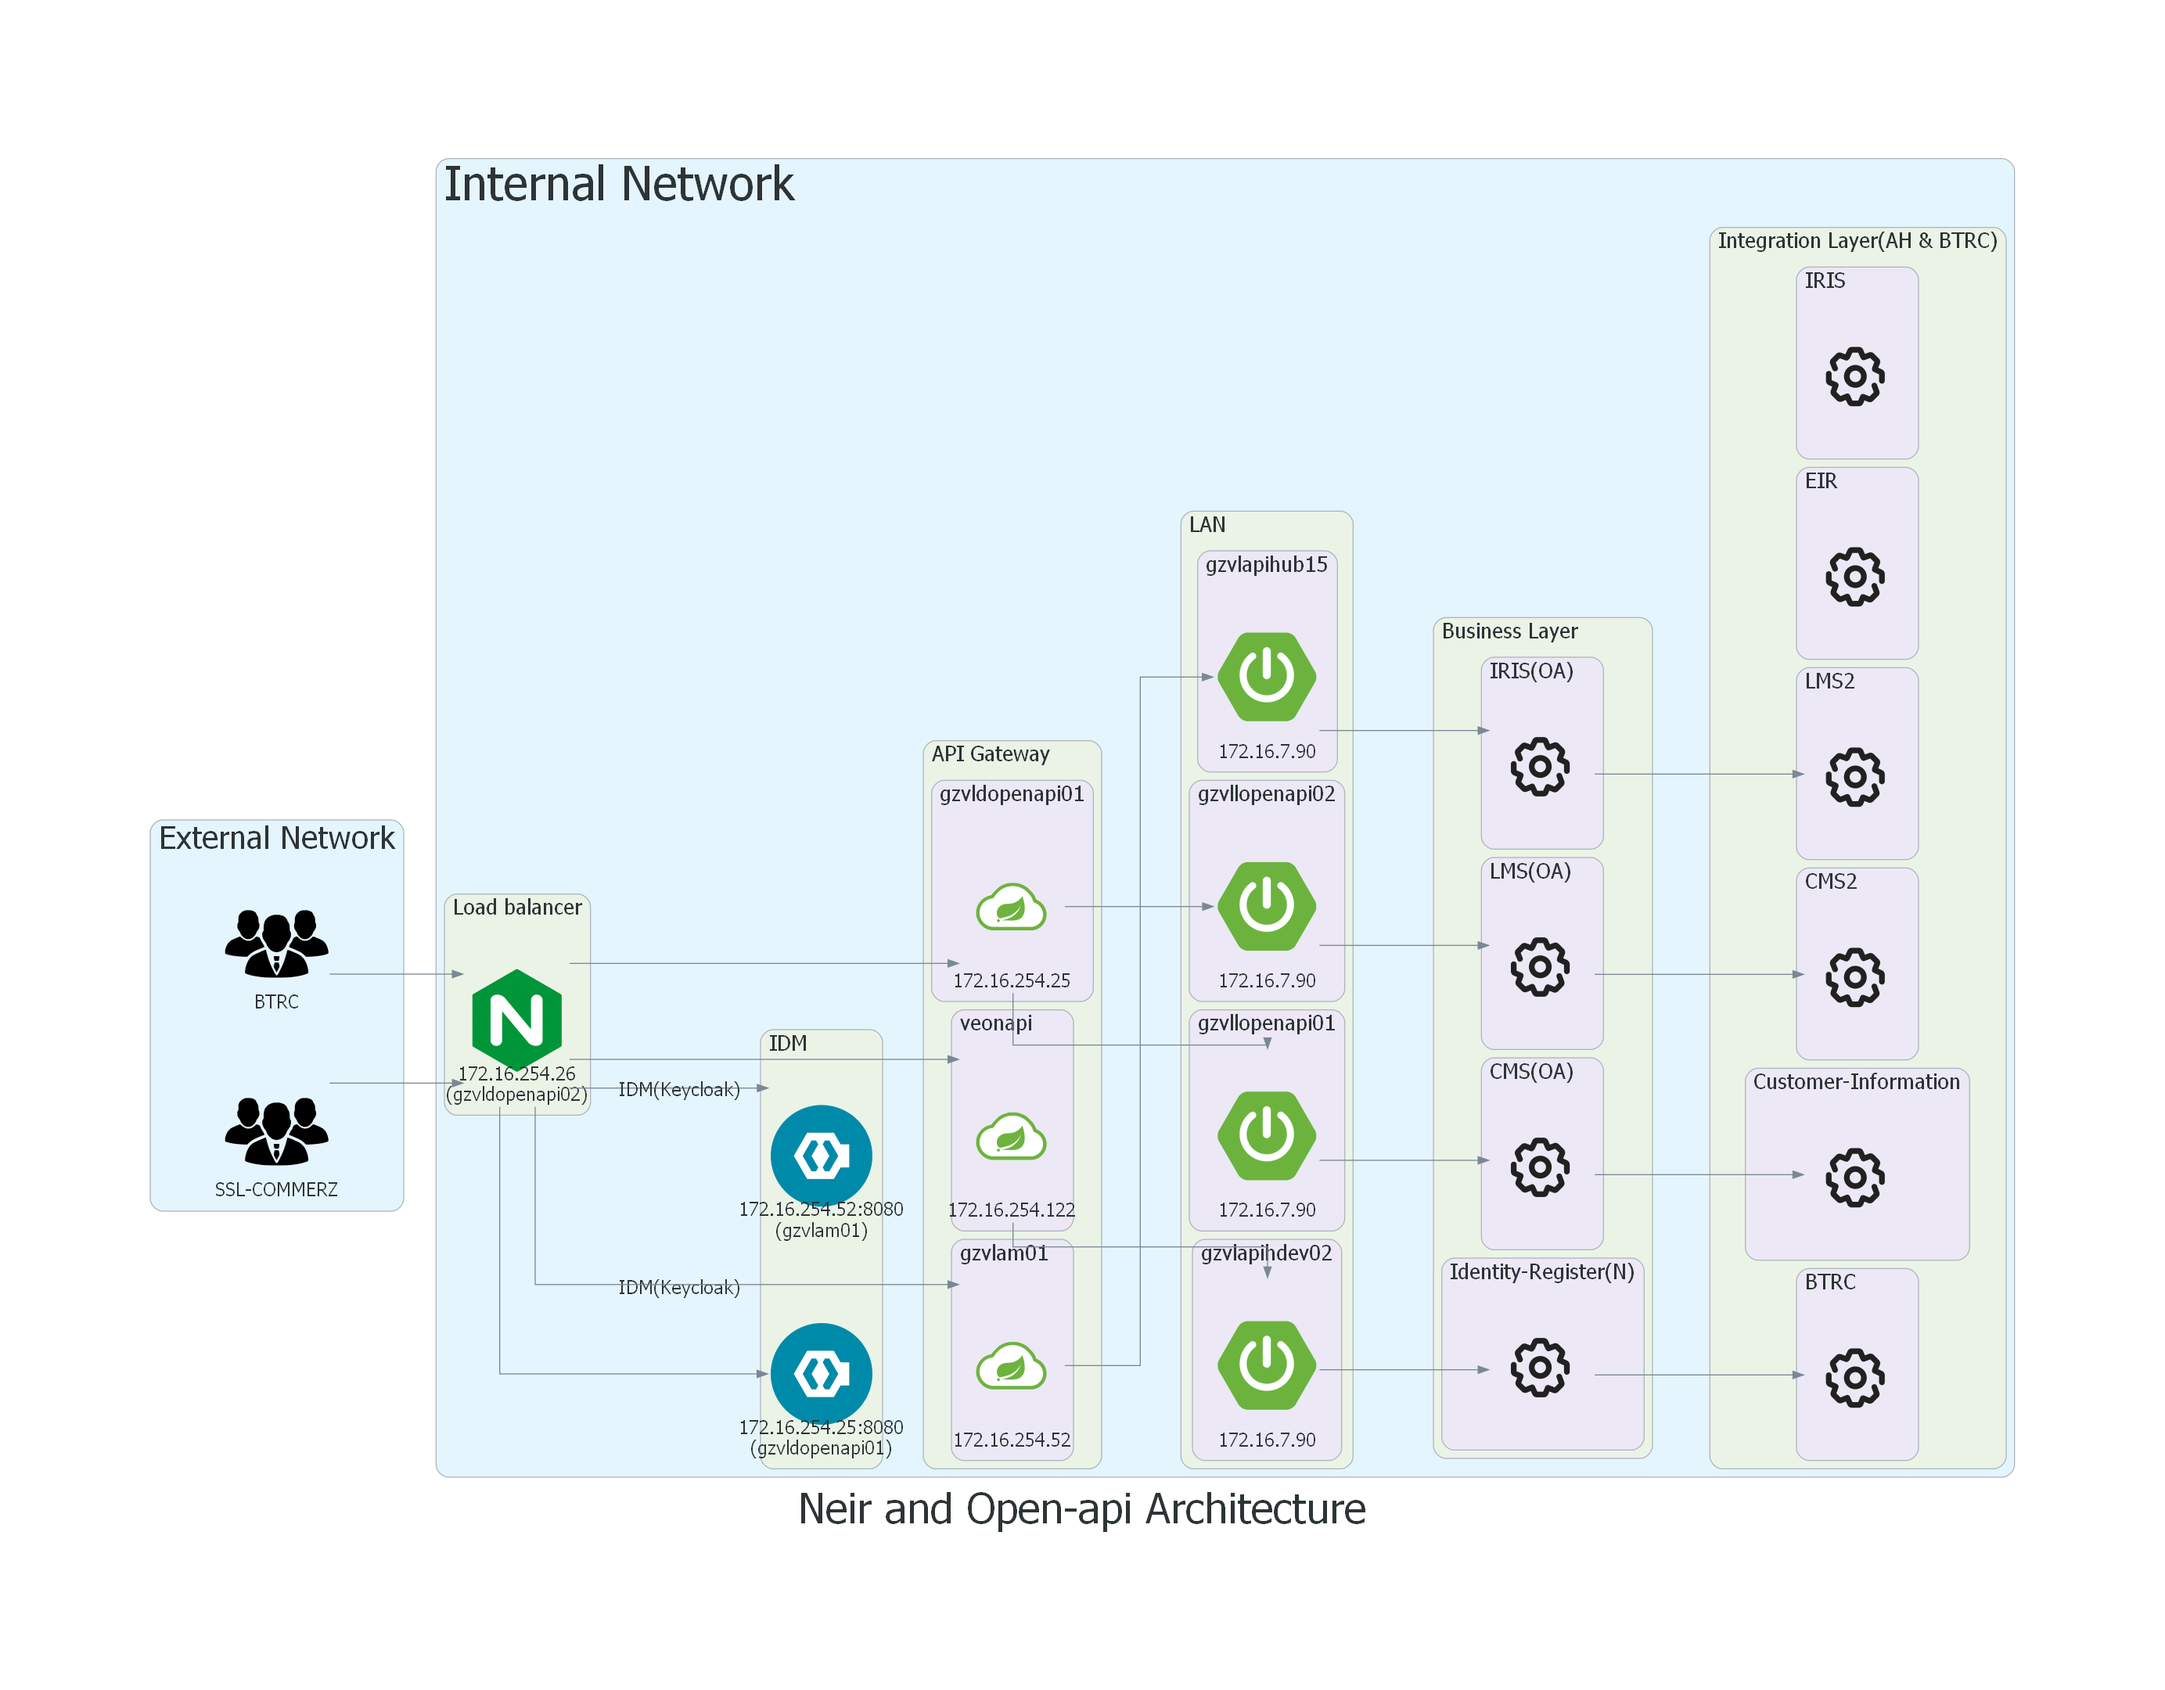
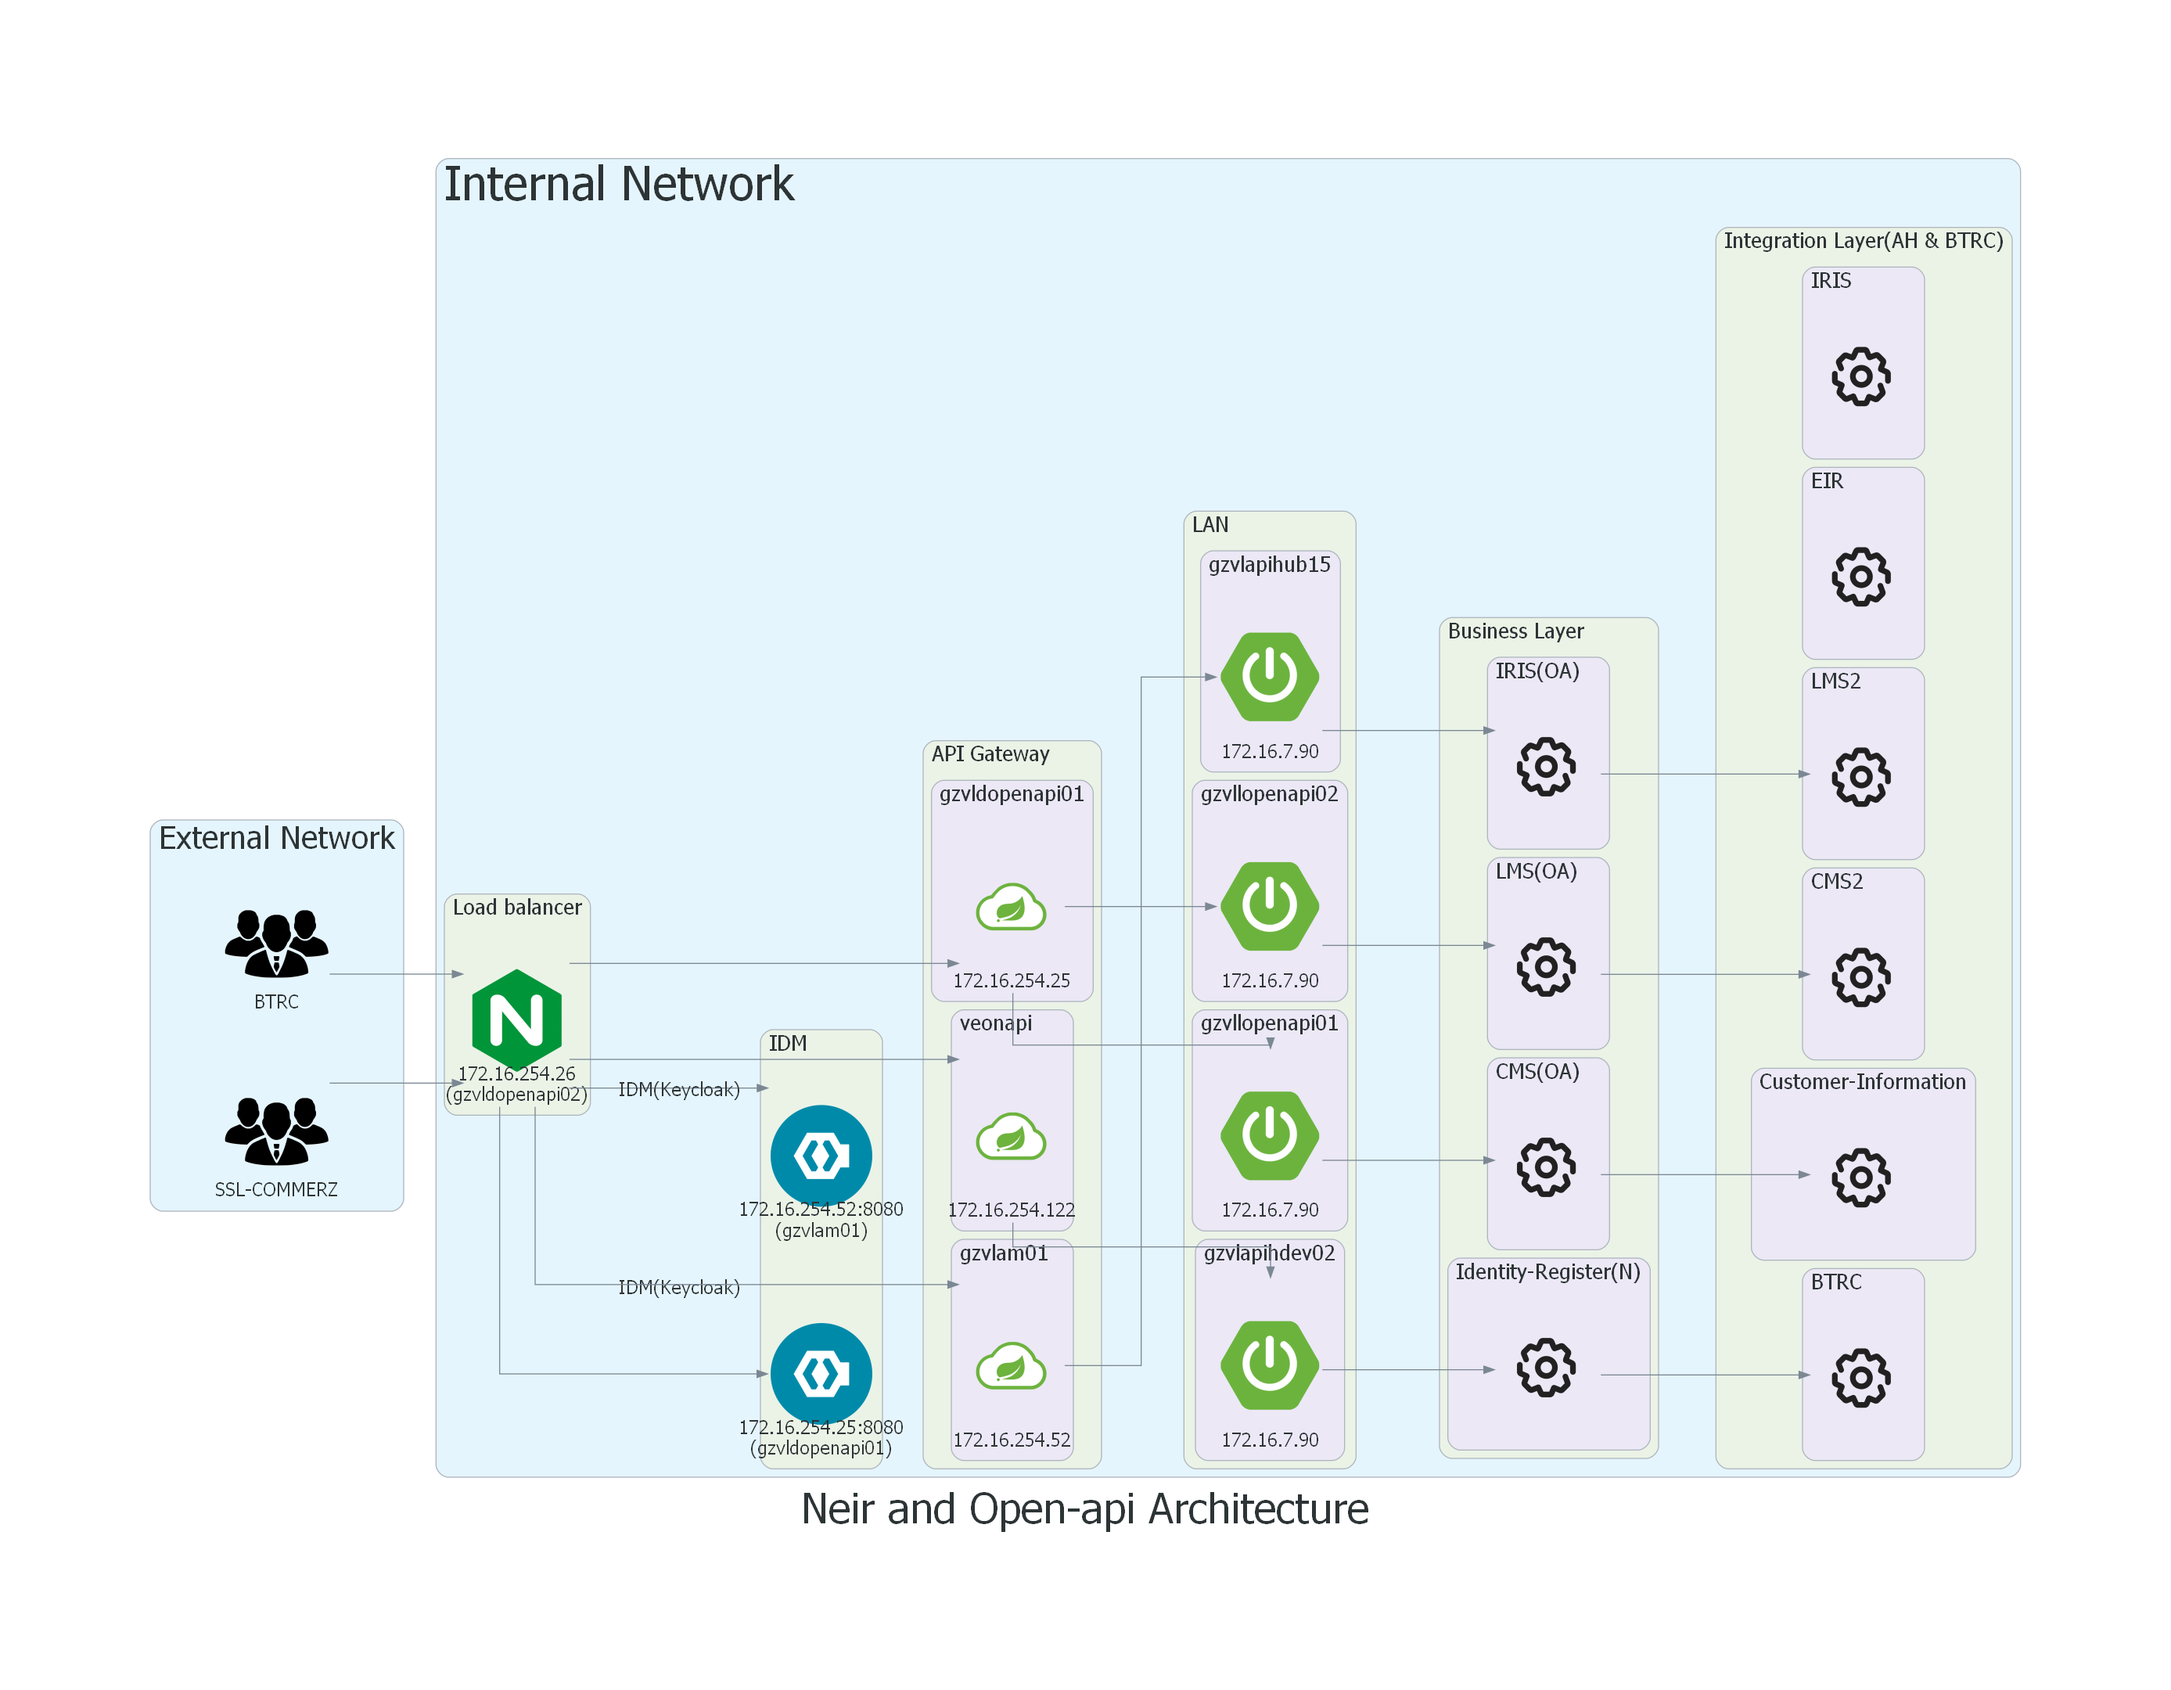
update 8

diff --git a/FinalDiagram.py b/FinalDiagram.py
@@ -40,7 +40,7 @@ with Diagram("Neir and Open-api Architecture", show=True,graph_attr=graph_attr):
         with Cluster("Load balancer",graph_attr=graph_font):
             lb = Custom("172.16.254.26\n(gzvldopenapi02)",loadBalancer,fontsize="18px")
         
-        with Cluster("IDM",graph_attr={"fontsize":"20", "align": "center"}):
+        with Cluster("IDM",graph_attr={"fontsize":"20"}):
             idm = [ Custom("172.16.254.25:8080\n(gzvldopenapi01)",IDM,fontsize="18px"),
                     Custom("172.16.254.52:8080\n(gzvlam01)",IDM,fontsize="18px")]
             
